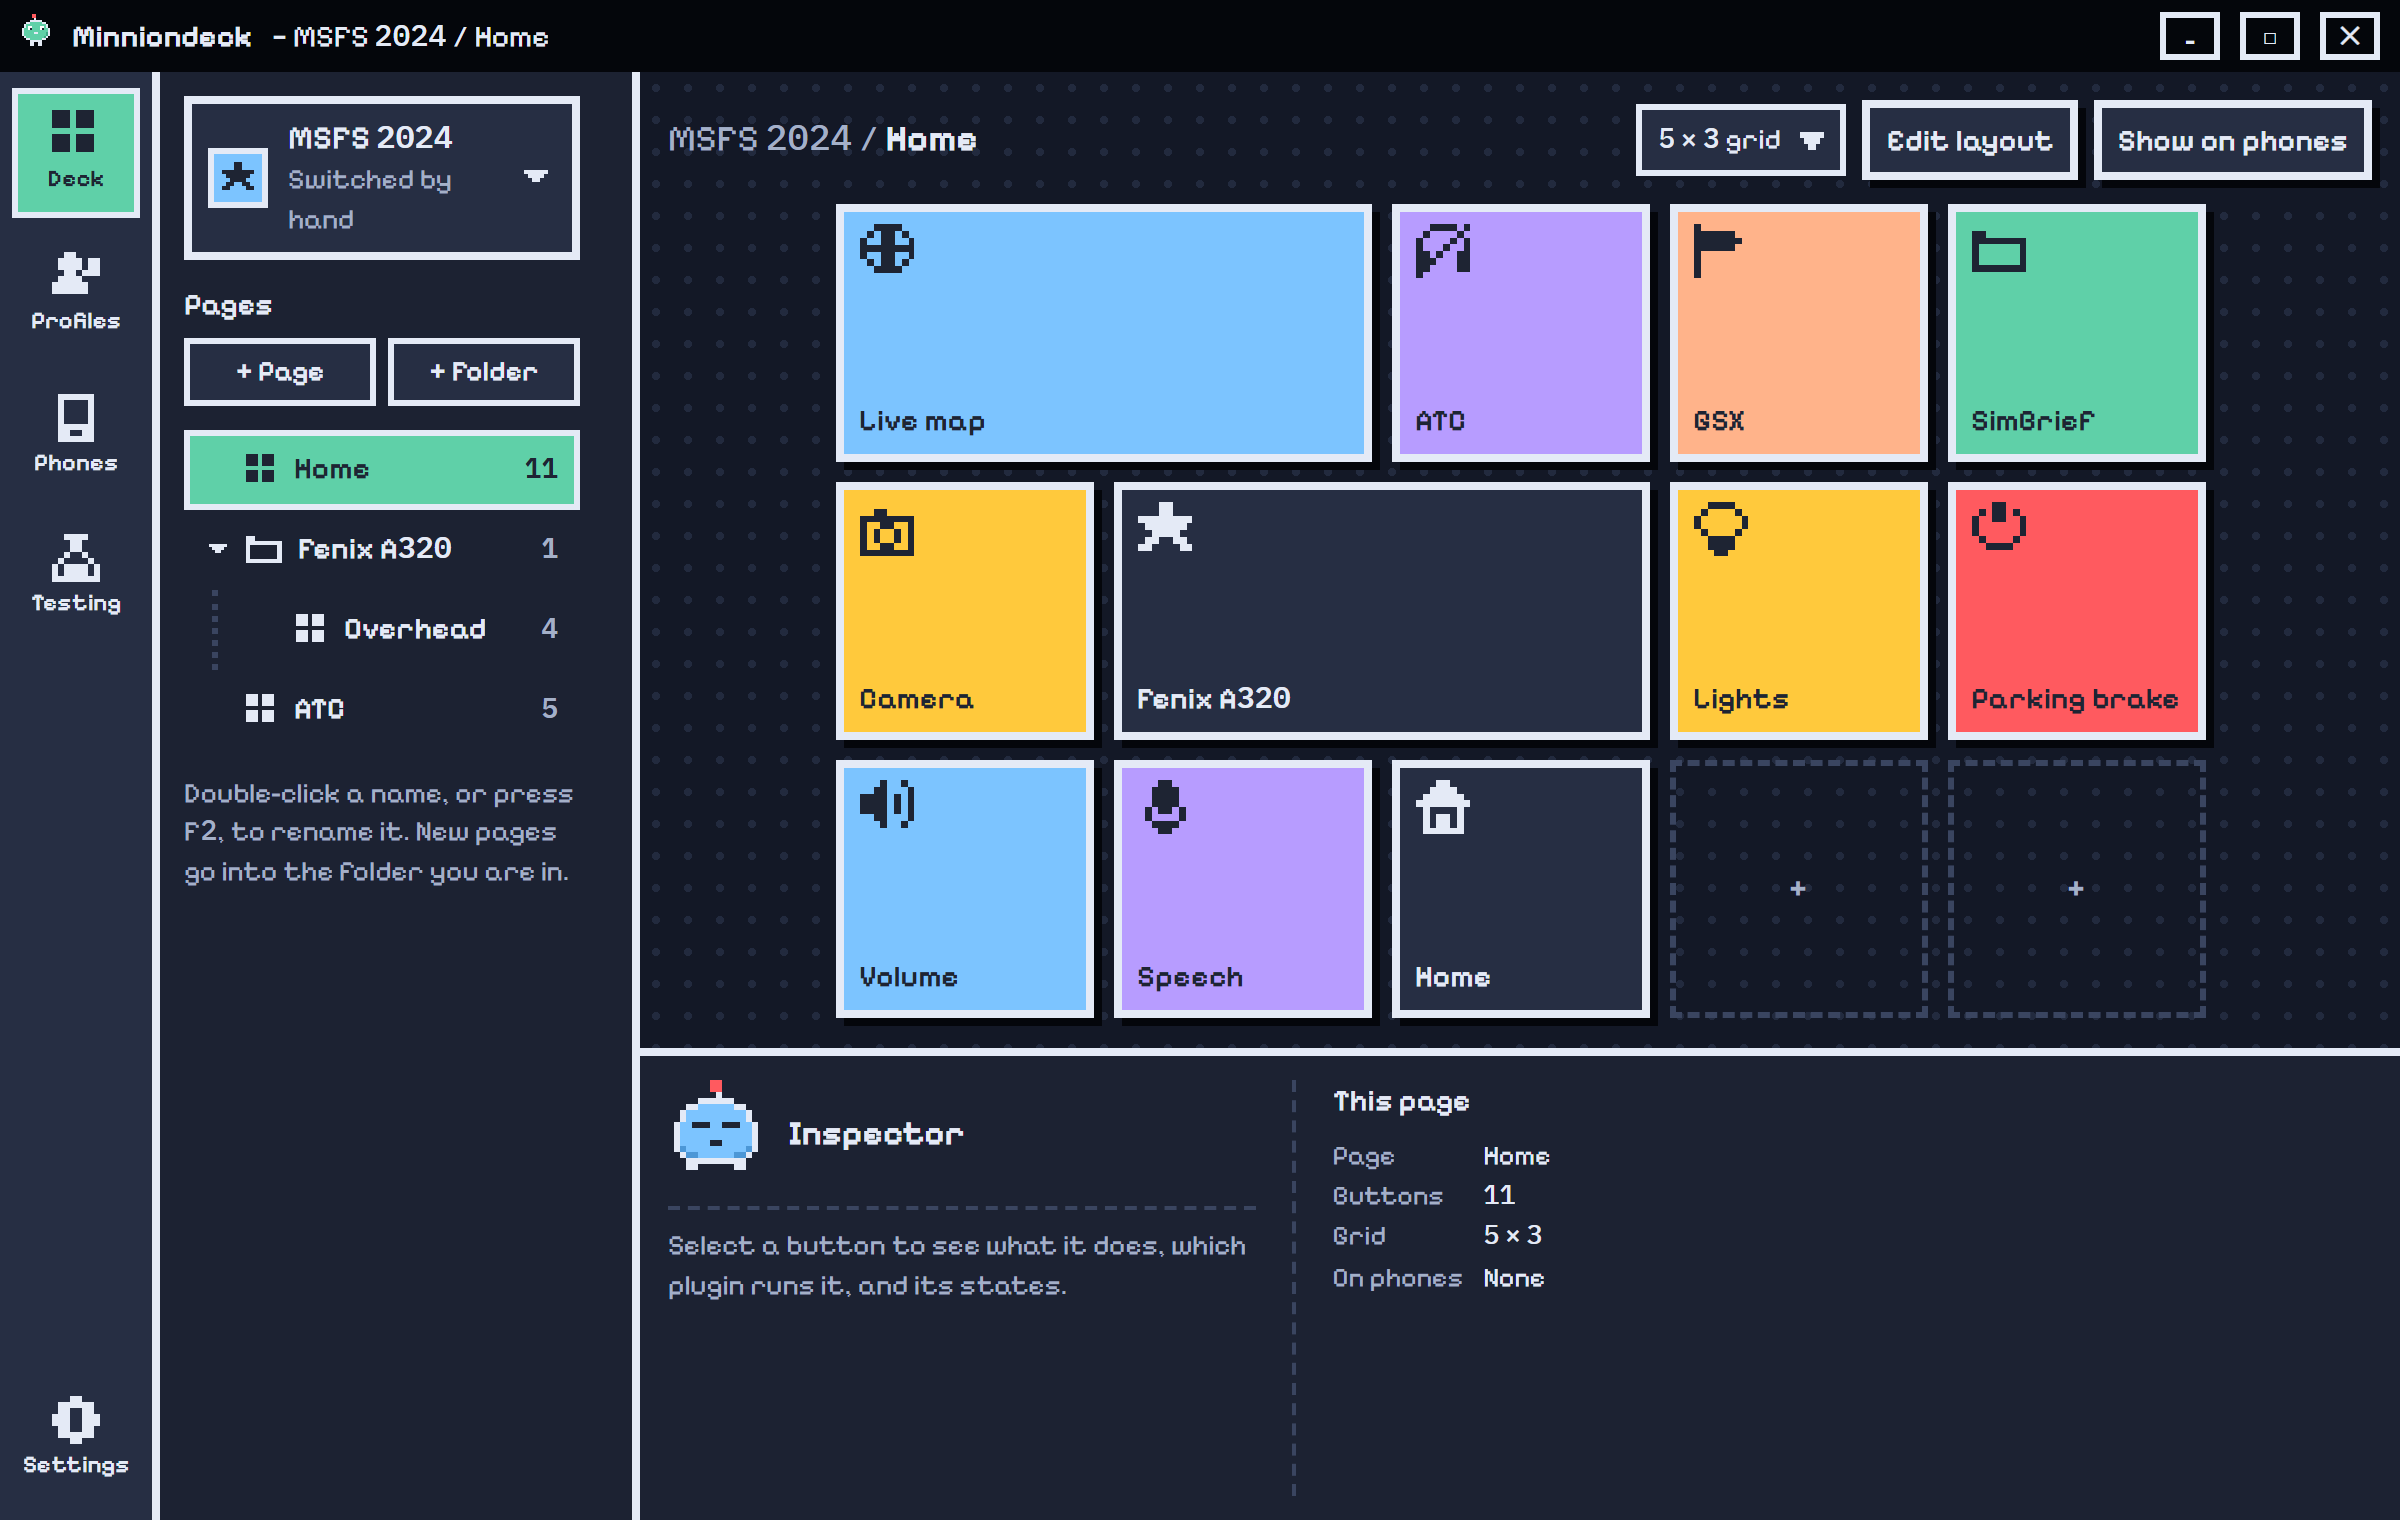
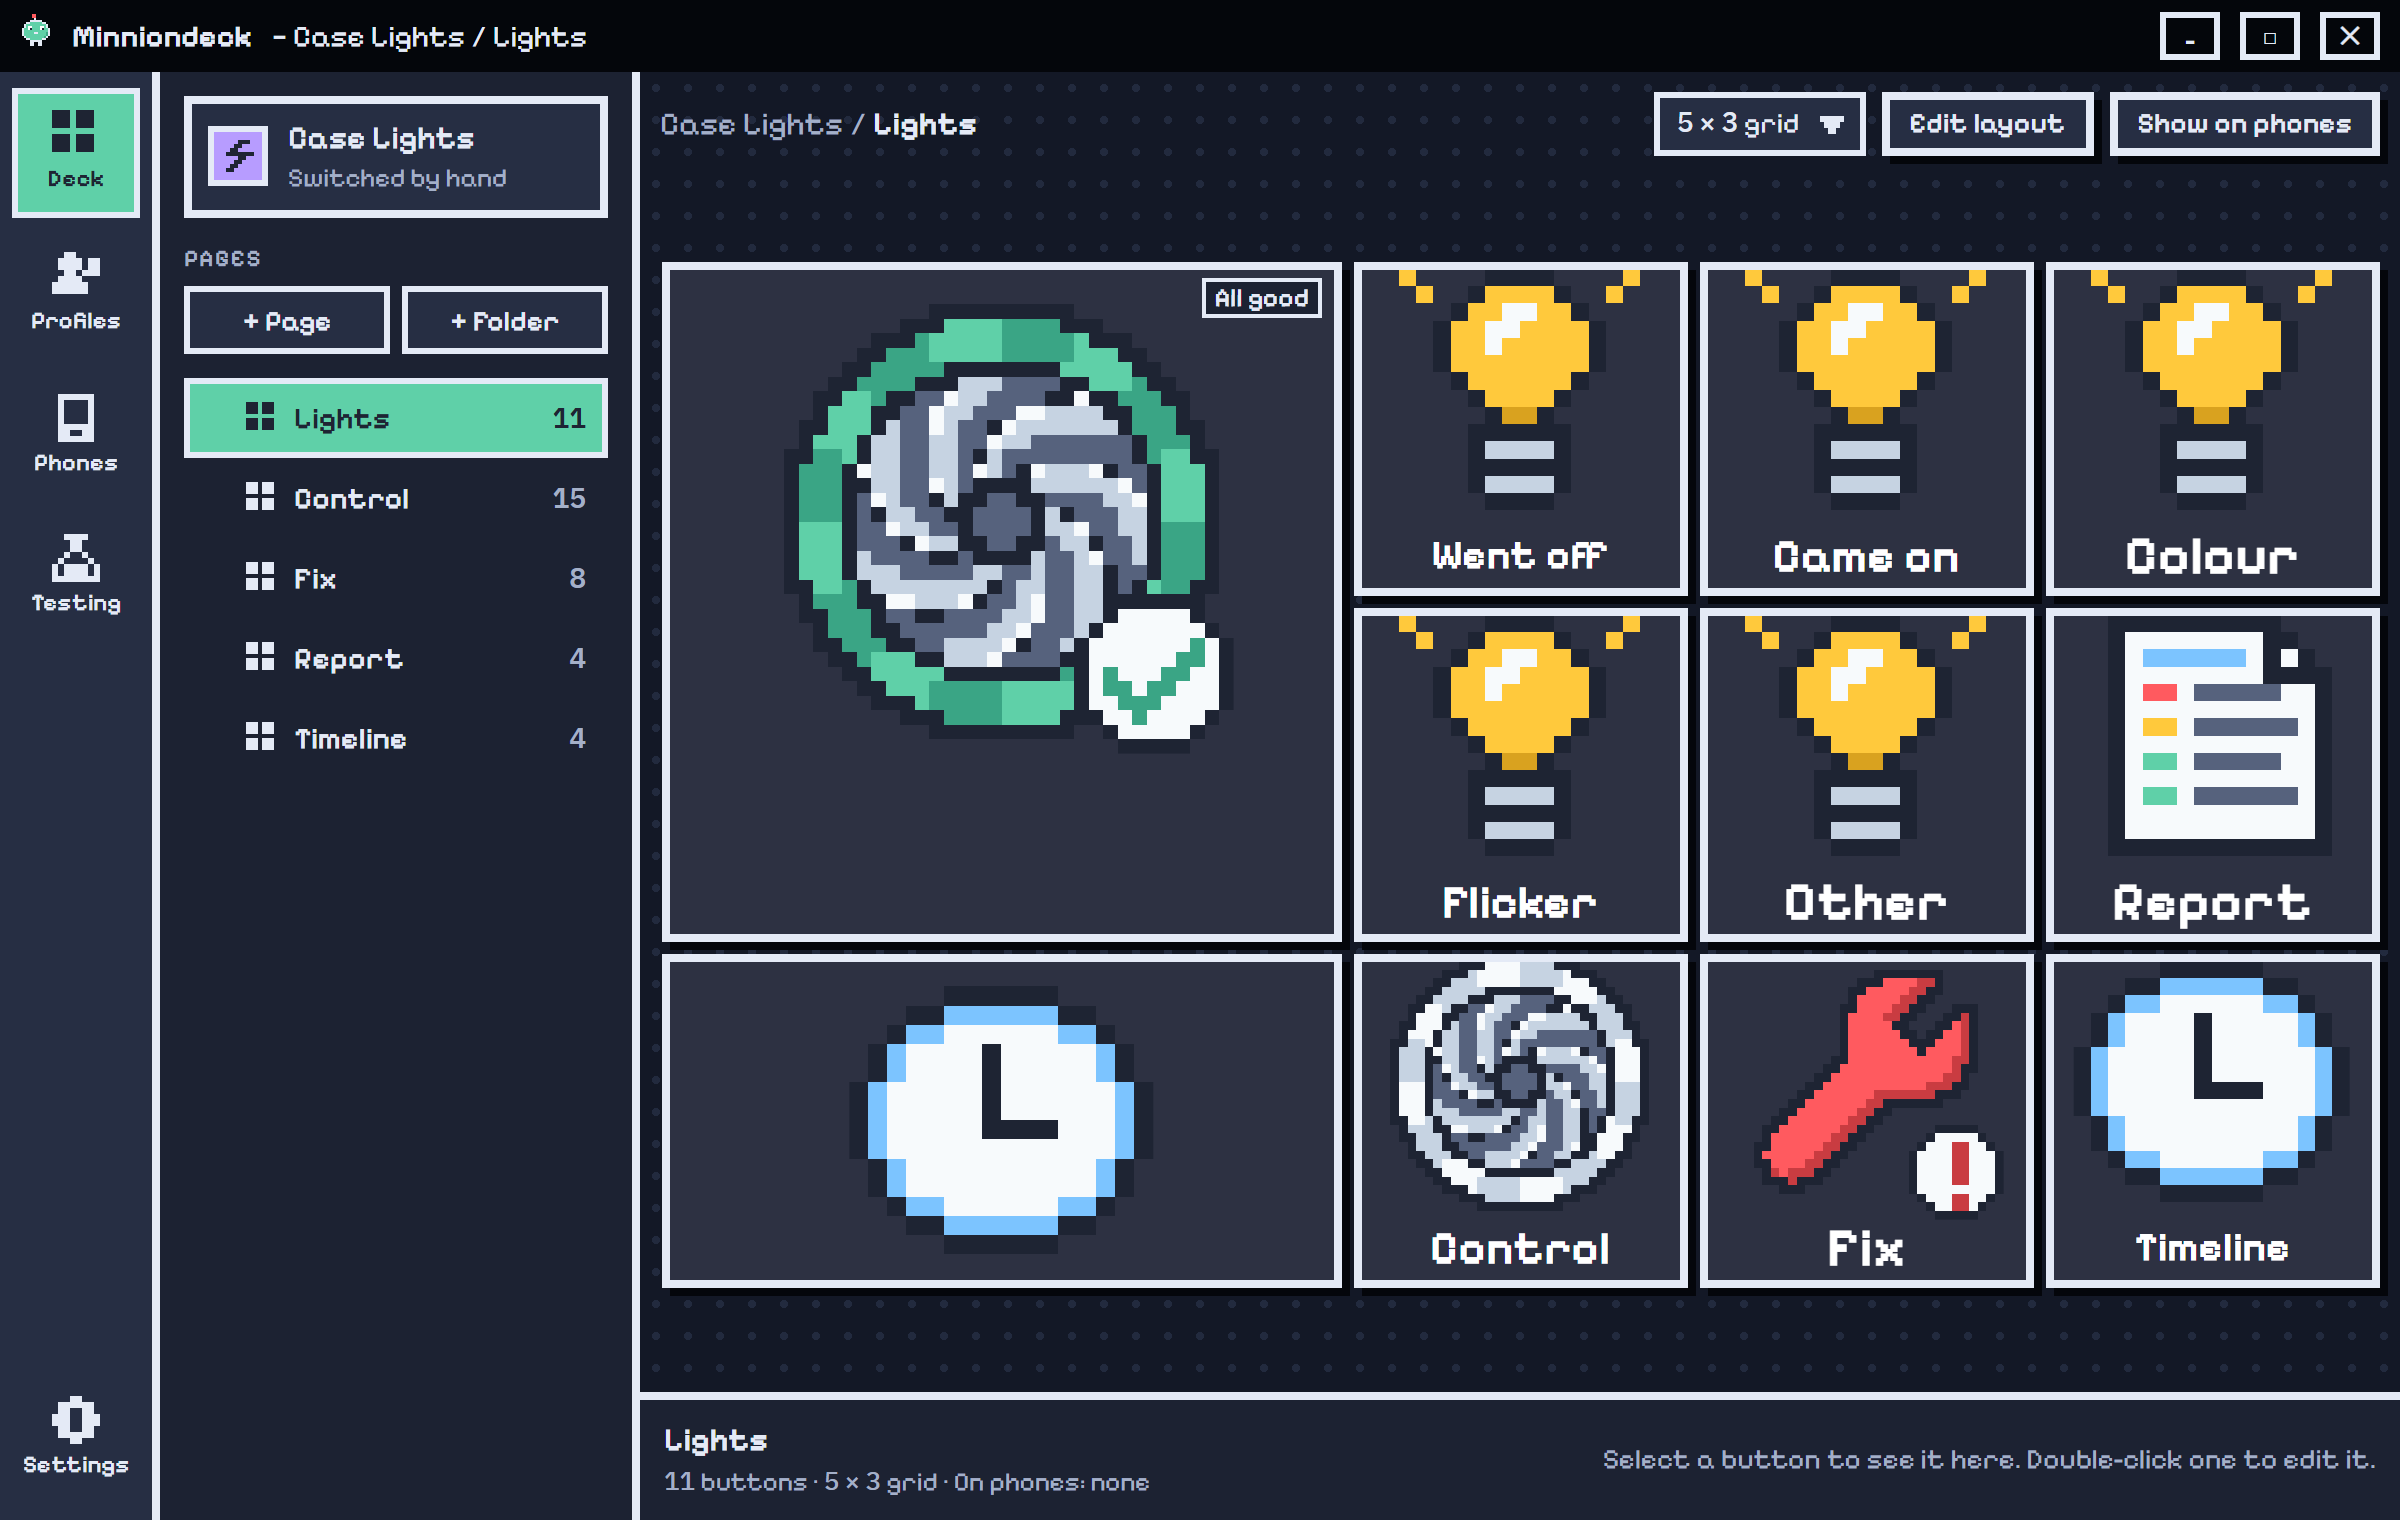
README: new screenshots, general wording
Case Lights, Soundboard and Profiles screenshots. Plugins described in general terms.

diff --git a/README.md b/README.md
@@ -5,8 +5,8 @@
 # Minniondeck
 
 **Big square buttons and live screens for your PC, run from an Android phone.**
-Press a button on the phone, and something happens on your PC, in your flight sim, or in the app in front.
-Built for **Microsoft Flight Simulator 2024** first, with plugins for everything else.
+Press a button on the phone, and something happens on your PC or in the app in front.
+Plugins add music, lights, timers, sounds and more.
 
 ![License](https://img.shields.io/badge/license-source--available-5fd0a8)
 ![Platform](https://img.shields.io/badge/platform-Windows%2010%2F11-7cc4ff)
@@ -15,7 +15,7 @@ Built for **Microsoft Flight Simulator 2024** first, with plugins for everything
 
 **[Website](https://minnnion.github.io)** · **[MinnionDeck Marketplace](https://github.com/minnnion/Minnion-Marketplace)**
 
-<img src="docs/screenshots/deck.png" alt="The Minniondeck desktop app showing a flight-sim profile" width="860">
+<img src="docs/screenshots/deck.png" alt="The Minniondeck desktop app showing the Case Lights profile" width="860">
 
 </div>
 
@@ -29,7 +29,7 @@ Minniondeck is a Stream-Deck-style system made of three parts:
 |---|---|
 | **Desktop app** (this repo) | The hub. Holds your profiles, buttons, pictures and plugins, runs actions on the PC, and talks to your phones. |
 | **Phone app** (Android, separate repo) | Shows the active profile as a deck of big square buttons and live screens. Presses go straight to the PC over Wi-Fi. |
-| **Plugins** (separate repos) | Add whole worlds of buttons: MSFS 2024, Spotify, case lights, speech and more. |
+| **Plugins** (separate repos) | Add whole sets of buttons: Spotify, case lights, timers, a soundboard, speech and more. |
 
 The phone is the main device. Lay your deck out once on the PC, and the phone follows it, page for page.
 
@@ -38,12 +38,12 @@ The phone is the main device. Lay your deck out once on the PC, and the phone fo
 ### Deck and button designer
 - **Pages, folders and profiles.** Grid layouts, buttons in three sizes, Go to page and Back, and an inspector for the selected button.
 - **Pixel-art button designer.** Layers, button states (on and off and more), press animations, **1,036 pixel icons** and **3,466 app and game logos**, and live text. The GIF maker and image maker are on the [website](https://minnnion.github.io).
-- **Actions.** Keys, typing, mouse, programs (drop one on the Edit window), websites, volume and media, waits, sequences, knobs, live maps and plugin screens.
+- **Actions.** Keys, typing, mouse, programs (drop one on the Edit window), websites, volume and media, waits, sequences, knobs and plugin screens.
 - **Automatic profile switching.** A profile can switch on by itself when an app such as OBS Studio or Spotify comes to the front.
 - **Share profiles.** Export and import `.mdprofile` files, with an "Allow imported buttons?" check before anything runs.
 
 <div align="center">
-<img src="docs/screenshots/inspector.png" alt="A selected button and its inspector" width="780">
+<img src="docs/screenshots/inspector.png" alt="A Soundboard page with a button selected" width="780">
 </div>
 
 ### Phones
@@ -60,14 +60,12 @@ The phone is the main device. Lay your deck out once on the PC, and the phone fo
 Plugins are signed `.mdplugin` files written with the Rust **plugin kit** in [`plugin-kit/`](plugin-kit).
 
 - Each plugin gets its own settings form. Passwords are encrypted with Windows DPAPI and are never sent back to the window.
-- Plugins can set a button's state, title, icon and live data (maps, screens). Phones get the same.
+- Plugins can set a button's state, title, icon and live screens. Phones get the same.
 - Install, update and reload without restarting the app. Trusted authors and a developer mode are built in.
-- A plugin can ask the app to speak. The app runs one local speech model (Phonon 31M English, Apache 2.0), so nothing leaves your PC.
+- A plugin can ask the app to speak. The app has its own offline speech engine (Phonon, Apache 2.0), so nothing leaves your PC.
 
 | Plugin | What it does |
 |---|---|
-| **MSFS 2024 Deck** | Fenix A320 controls, live map, BeyondATC, GSX Pro, SimBrief |
-| **Cockpit Camera** | Head motion and smart views for MSFS 2024, using the official Camera API |
 | **Speech + Voices** | Offline text to speech with 37 English voices |
 | **Case Lights** | MSI board RGB: colours, scenes, screen sync |
 | **Spotify Control** | Play, skip, volume and a now-playing tile with the real cover |
@@ -78,21 +76,13 @@ Plugins are signed `.mdplugin` files written with the Rust **plugin kit** in [`p
 
 > Plugins are not part of this repository. Install them from the **[Minnion Marketplace](https://minnnion.github.io/#marketplace)**: press **Install** and Minniondeck downloads, checks and loads the plugin.
 
-### Built for flight simulation
-The MSFS 2024 plugin turns the phone into a cockpit panel:
-
-- **Fenix A320:** every control as a button by panel, lit push buttons, switches, knobs with push and pull, and live values (FCU, BARO and more).
-- **Live map:** your aircraft, other traffic, the SimBrief route, the ATC taxi route with hold-short bars, and airport diagrams (72,662 airports).
-- **BeyondATC, GSX Pro and SimBrief:** radio messages, services, pushback direction, and the OFP screen. All read through the links those tools offer. Nothing in them is changed.
-- **Cockpit camera:** head motion for engines, ground, air and touchdown, and smart views you reach by holding the middle mouse button.
-
 ## Download
 
 **[Download Minniondeck 0.1.0 for Windows](https://github.com/minnnion/MinnionDeck/releases/latest)** from Releases. It's free, with no account and no licence key.
 
 | File | For |
 |---|---|
-| `Minniondeck_0.1.0_x64-setup.exe` | Most people. **Minniondeck Setup**: installs for you, with no admin prompt. |
+| `Minniondeck_0.1.0_x64-setup.exe` | Most people. **Minniondeck Setup**: installs just for you, with no extra Windows prompts. |
 | `Minniondeck_0.1.0_x64_en-US.msi` | Silent or managed installs, for everyone on the PC. |
 
 **Minniondeck Setup** asks what you'll use Minniondeck for, shows the plugins from the marketplace that go with it, and installs the app and the plugins you keep ticked. Each plugin is checked against its SHA-256 before it's added. It adds Start-menu and desktop shortcuts, opens `.mdprofile` files in Minniondeck, and has a normal uninstaller in Windows' Installed apps.
@@ -112,9 +102,9 @@ Streaming, Games and Work in the setup, once their plugins are in the marketplac
 
 ```
 src/            Front end: plain JavaScript and CSS, in the app's own pixel style
-src-tauri/      Rust backend: actions, phones, plugins, storage, speech, maps
+src-tauri/      Rust backend: actions, phones, plugins, storage, speech
 plugin-kit/     Rust crate plugins are built against
-public/         Static files the app loads (airport data, backend bridge)
+public/         Static files the app loads (backend bridge)
 docs/           Screenshots used in this README
 ```
 
@@ -134,8 +124,6 @@ To report a security problem, open a private security advisory on GitHub.
 - [x] Deck, profiles, phones and the button designer
 - [x] Plugin system, with encrypted settings
 - [x] Local speech engine
-- [x] MSFS 2024 plugin: Fenix A320, live map, BeyondATC, GSX, SimBrief
-- [x] Cockpit camera: head motion and smart views
 - [x] Minniondeck Setup (0.1.0): asks what you'll use it for, and installs the plugins that fit
 - [x] Minnion Marketplace with official plugins: Spotify, Timer, System Monitor, Soundboard and Weather
 - [ ] Streaming, Games and Work in the setup
@@ -150,4 +138,4 @@ Bug reports and ideas are welcome as GitHub issues. The code is published so you
 
 **Source-available, all rights reserved.** © 2026 minnnion. You may read the code and use the official release for your own use. You may not copy, rebuild, modify, redistribute or publish your own version of Minniondeck. See [LICENSE](LICENSE) for the exact terms.
 
-Minniondeck is not affiliated with Microsoft, Asobo, Fenix Simulations, BeyondATC, FSDreamTeam, Spotify or any other product named here. All names and logos belong to their owners.
+Minniondeck is not affiliated with Spotify, MSI or any other product named here. All names and logos belong to their owners.
